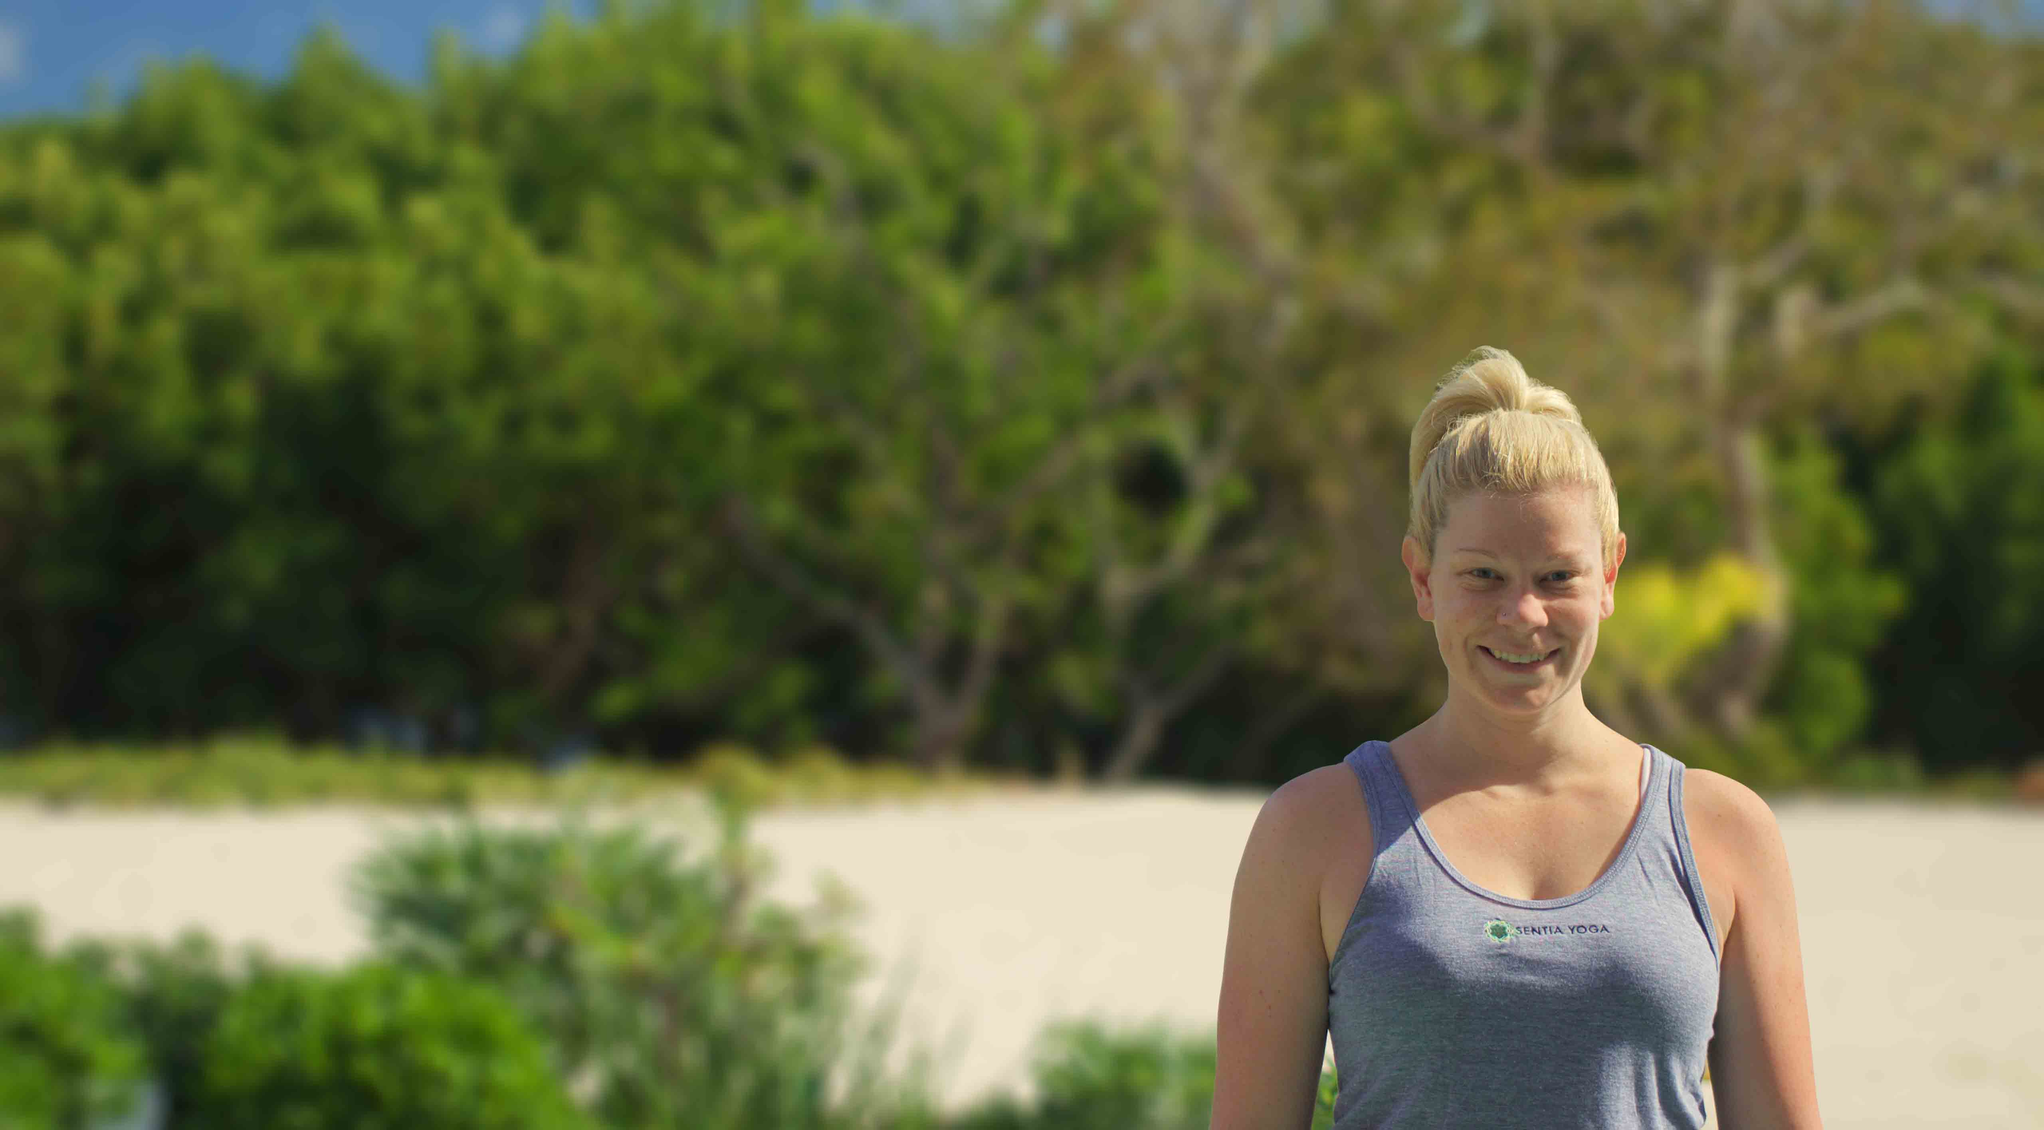
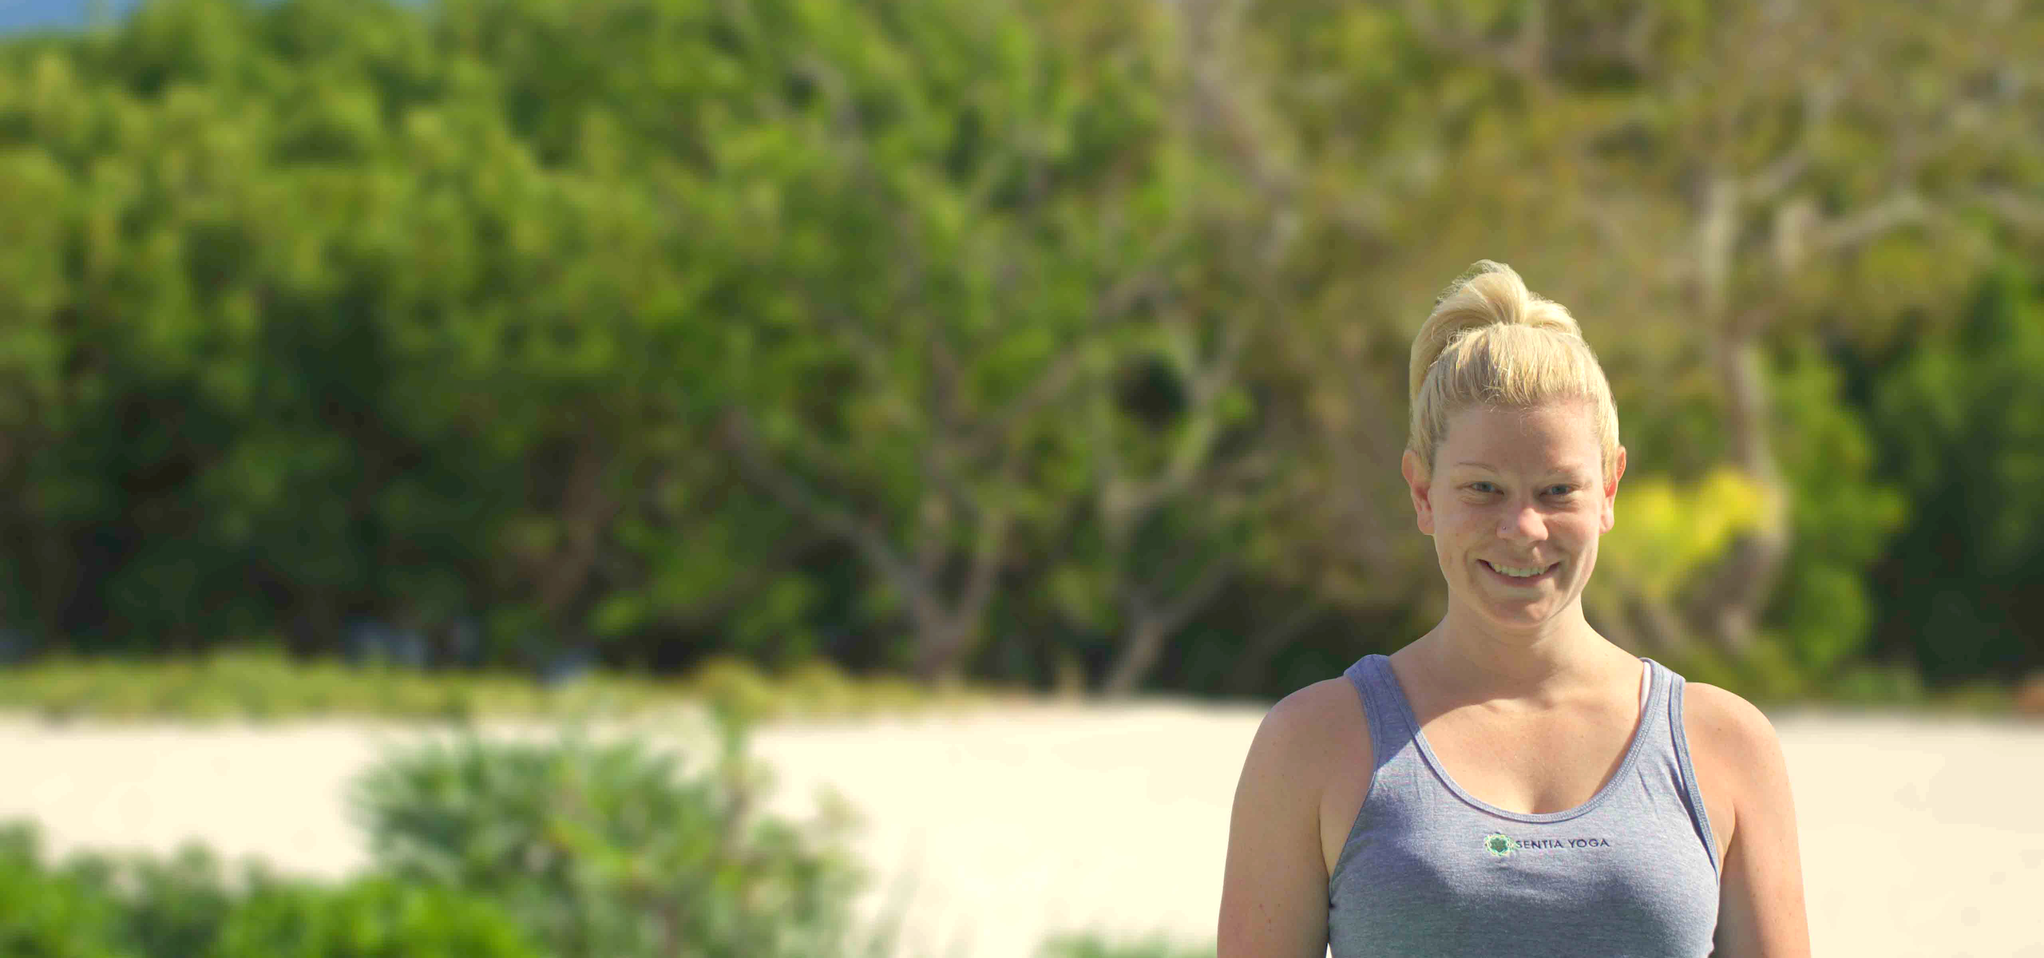
New design

diff --git a/_site/index.html b/_site/index.html
@@ -3,9 +3,10 @@
 <head>
     <meta charset="utf-8">
     <meta name="viewport" content="width=device-width, initial-scale=1">
-    <title></title>
-    <link rel="stylesheet" href="//fonts.googleapis.com/css?family=Merriweather:400,300,700,300italic,400italic,700italic">
-    <link rel="stylesheet" href="/css/styles.css">
+    <title>Sentia Yoga</title>
+    <link rel="stylesheet" href="//fonts.googleapis.com/css?family=Source+Sans+Pro:300,400,600">
+    <style>html{font-size:100%}body{background:#FFF;color:#414440;font-family:"Source Sans Pro", sans-serif;-webkit-font-feature-settings:"dlig", "kern", "liga";font-feature-settings:"dlig", "kern", "liga";-webkit-font-smoothing:antialiased;line-height:1.5rem;margin:0;-moz-osx-font-smoothing:grayscale;text-rendering:optimizeLegibility}a{color:#009245;text-decoration:none}a:focus,a:hover{color:#39B54A}h1{font-size:2.25rem;font-weight:300;line-height:3rem;margin:0}h2{font-weight:600;font-size:1.2rem;line-height:1.5rem;margin:1.5rem 0 0}p{margin:1.5rem 0;max-width:45rem}.site-header{background-size:2px 2px;background-image:linear-gradient(90deg, transparent 0%, transparent 50%, #C1C4C0 50%, #C1C4C0 100%);background-position:right top;background-repeat:repeat-y}@media (-webkit-min-device-pixel-ratio: 2), (min-resolution: 192dpi){.site-header{background-size:1px 1px}}@media (min-width: 45rem){.site-header{min-height:100vh;position:fixed;width:18rem}}.site-title{background-size:2px 2px;background-image:linear-gradient(transparent 0%, transparent 50%, #C1C4C0 50%, #C1C4C0 100%);background-position:left bottom;background-repeat:repeat-x;font-size:1rem;line-height:1.5rem;margin:0;padding:1.5rem 0.75rem}@media (-webkit-min-device-pixel-ratio: 2), (min-resolution: 192dpi){.site-title{background-size:1px 1px}}.site-title a{background-image:url("../images/logo.svg");background-position:center;background-repeat:no-repeat;background-size:contain;display:block;height:3rem;overflow:hidden;text-indent:100%}@media (min-width: 45rem){.site-title{padding:3rem 0.75rem}}.site-nav{display:none;list-style:none;margin:0;padding:0}@media (min-width: 45rem){.site-nav{display:block}}.site-nav__item a{background-size:2px 2px;background-image:linear-gradient(transparent 0%, transparent 50%, #C1C4C0 50%, #C1C4C0 100%);background-position:left bottom;background-repeat:repeat-x;display:block;padding:1.5rem;text-align:center}@media (-webkit-min-device-pixel-ratio: 2), (min-resolution: 192dpi){.site-nav__item a{background-size:1px 1px}}.contact-options{display:-webkit-flex;display:flex;-webkit-justify-content:center;justify-content:center;list-style:none;margin:1.5rem auto;padding:0;text-align:center}.contact-options__item{display:inline}.contact-options__item a{display:table;height:3rem;width:3rem;vertical-align:middle}.contact-options__item a svg{height:1.5rem;padding:0.75rem;width:1.5rem}.contact-options__item a svg path{fill:#919490}.contact-options__item a:focus svg path,.contact-options__item a:hover svg path{fill:#C1C4C0}@media (min-width: 45rem){.site-main{box-sizing:border-box;margin:0 0 0 18rem;padding:3rem}}.section--about{background:#919490;color:#FFF;padding:1.5rem 0.75rem}.section--about h1{font-size:1.875rem;font-weight:400;line-height:2.25rem;max-width:18rem;margin:1.5rem 0 0}@media (min-width: 45rem){.section--about{padding:3rem}.section--about h1{font-size:2.25rem;line-height:3rem;margin:0;max-width:24rem}}@media (min-width: 75rem){.section--about{background-image:linear-gradient(90deg, rgba(65,68,64,0.625) 0%, transparent 100%),url("../images/sarah-compressed.jpg");background-position:center;background-size:cover}.section--about p{max-width:30rem}}@media (min-width: 90rem){.section--about h1,.section--about p{max-width:33rem}}.section-title{margin:0;padding:3rem 0.75rem 1.5rem;text-align:center}@media (min-width: 45rem){.section-title{margin:0;padding:3rem 0 1.5rem;text-align:left}}.tiled-list{list-style:none;margin:0;padding:0}.tiled-list:after{clear:both;content:" ";display:table}@media (min-width: 45rem){.tiled-list{margin:-0.75rem}}.tiled-list__item{background-size:2px 2px;background-image:linear-gradient(#C1C4C0 0%, #C1C4C0 50%, transparent 50%, transparent 100%),linear-gradient(transparent 0%, transparent 50%, #C1C4C0 50%, #C1C4C0 100%),linear-gradient(90deg, #C1C4C0 0%, #C1C4C0 50%, transparent 50%, transparent 100%),linear-gradient(90deg, transparent 0%, transparent 50%, #C1C4C0 50%, #C1C4C0 100%);background-position:left top, left bottom, left top, right top;background-repeat:repeat-x, repeat-x, repeat-y, repeat-y;box-sizing:border-box;-webkit-hyphens:auto;-moz-hyphens:auto;-ms-hyphens:auto;hyphens:auto;margin:0.75rem;padding:1.5rem}@media (-webkit-min-device-pixel-ratio: 2), (min-resolution: 192dpi){.tiled-list__item{background-size:1px 1px}}@media (min-width: 45rem){.tiled-list__item{float:left;margin:0.75rem;width:calc(100% - 1.5rem)}}@media (min-width: 75rem){.tiled-list__item{height:22.5rem;width:calc(50% - 1.5rem)}}@media (min-width: 90rem){.tiled-list__item{width:calc(33.333% - 1.5rem)}}@media (min-width: 120rem){.tiled-list__item{width:calc(25% - 1.5rem)}}@media (min-width: 150rem){.tiled-list__item{width:calc(20% - 1.5rem)}}.tile{margin:-1.5rem 0 0;padding:0 0.75rem}@media (min-width: 45rem){.tile{padding:0}}.location-info{font-size:0.75rem;margin:0.75rem 0 0}.time-and-cost-info{font-size:0.75rem;margin:0 0 1.5rem}.site-footer{color:#919490;padding:3rem;text-align:center}@media (min-width: 45rem){.site-footer{box-sizing:border-box;margin:0 0 0 18rem;text-align:left}}
+</style>
 </head>
 
 <body>
@@ -17,11 +18,17 @@
             <li class="site-nav__item"><a href="#regular-classes">Regular Classes</a></li>
             <li class="site-nav__item"><a href="#private-hire">Private Hire</a></li>
         </ul>
+        <ul class="contact-options">
+            <li class="contact-options__item"><a href="https://facebook.com/sentiayoga"><svg version="1.1" xmlns="http://www.w3.org/2000/svg" xmlns:xlink="http://www.w3.org/1999/xlink" width="28" height="28" viewBox="0 0 28 28"><path fill="#444444" d="M22.672 2q0.547 0 0.938 0.391t0.391 0.938v21.344q0 0.547-0.391 0.938t-0.938 0.391h-6.109v-9.297h3.109l0.469-3.625h-3.578v-2.312q0-0.875 0.367-1.313t1.43-0.438l1.906-0.016v-3.234q-0.984-0.141-2.781-0.141-2.125 0-3.398 1.25t-1.273 3.531v2.672h-3.125v3.625h3.125v9.297h-11.484q-0.547 0-0.938-0.391t-0.391-0.938v-21.344q0-0.547 0.391-0.938t0.938-0.391h21.344z"></path></svg></a></li>
+            <li class="contact-options__item"><a href="https://twitter.com/sentiayoga"><svg xmlns="http://www.w3.org/2000/svg" width="26" height="28" viewBox="0 0 26 28"><path fill="#444" d="M25.312 6.375q-1.047 1.53-2.53 2.61.015.218.015.655 0 2.03-.594 4.055t-1.805 3.883-2.883 3.29-4.03 2.28T8.436 24q-4.234 0-7.75-2.266.547.063 1.22.063 3.515 0 6.265-2.156-1.64-.03-2.938-1.007t-1.78-2.492q.515.08.952.08.672 0 1.328-.173-1.75-.36-2.898-1.742t-1.148-3.21v-.064q1.062.595 2.28.642-1.03-.688-1.64-1.797t-.61-2.406q0-1.376.69-2.548 1.89 2.328 4.6 3.727t5.806 1.554q-.125-.594-.125-1.156 0-2.094 1.476-3.57T17.736 4q2.188 0 3.687 1.595 1.703-.328 3.203-1.22-.578 1.798-2.22 2.782 1.454-.156 2.907-.78z"/></svg></a></li>
+            <li class="contact-options__item"><a href="https://instagram.com/sentiayoga"><svg xmlns="http://www.w3.org/2000/svg" width="28" height="28" viewBox="0 0 28 28"><path fill="#444" d="M21.28 22.28V12.157h-2.108q.313.984.313 2.047 0 1.97-1 3.633t-2.72 2.633-3.75.968q-3.077 0-5.265-2.117t-2.188-5.116q0-1.062.313-2.047H2.672v10.125q0 .406.273.68t.68.273h16.703q.39 0 .672-.273t.28-.68zm-4.436-8.327q0-1.937-1.414-3.305T12.016 9.28q-1.984 0-3.398 1.368t-1.414 3.305 1.414 3.305 3.398 1.367q2 0 3.414-1.367t1.414-3.305zm4.437-5.625V5.75q0-.438-.312-.758t-.766-.32h-2.72q-.452 0-.765.32t-.313.758v2.578q0 .453.313.766t.766.313h2.72q.452 0 .765-.313t.313-.766zM24 5.078v17.844q0 1.266-.906 2.172T20.922 26H3.078q-1.266 0-2.172-.906T0 22.922V5.078q0-1.266.906-2.172T3.078 2h17.844q1.266 0 2.172.906T24 5.078z"/></svg></a></li>
+            <li class="contact-options__item"><a href="https://medium.com/@sentiayoga"><svg xmlns="http://www.w3.org/2000/svg" width="28" height="28" viewBox="0 0 28 28"><path fill="#444" d="M28 20.813v3.266H17.97v-3.267h2.093V6.343h-.094L15.062 24.08h-3.797L6.422 6.344h-.125v14.47h2.11v3.265H0v-3.267h1.078q.328 0 .672-.305t.344-.586V6.156q0-.28-.344-.625t-.672-.343H0V1.92h10.5l3.453 12.83h.094L17.53 1.92H28v3.267h-1.11q-.296 0-.64.344t-.344.626v13.766q0 .28.336.586t.648.305H28z"/></svg></a></li>
+        </ul>
     </header>
     <main class="site-main" role="main">
         <section class="section--about" id="about">
             <h1>Professional yoga instructor in Bath, UK.</h1>
-            <p>Hi, I’m Sarah. I am a certified and registered yoga instructor with the Independent Yoga Network. I’m vailable for studio, corporate and private instruction classes.</p>
+            <p>Hi, I’m Sarah. I am a certified and registered yoga instructor with the Independent Yoga Network. I’m available for studio, corporate and private instruction classes.</p>
             <p>In my 23+ years as a student of yoga I have found inspiration, sanctuary and strength in the practice. I try to work one or all of my varied expertise and passions into each class, making each one unique and inspiring! I have created sessions for crossfitters, runners, office workers and complete beginners.</p>
         </section>
         <section id="workshops">
@@ -54,12 +61,21 @@
                 <h1 class="section-title">Regular Classes</h1>
             </header>
             <ul class="tiled-list">
-                <li class="tiled-list__item">Lorem ipsum</li>
-                <li class="tiled-list__item">Lorem ipsum</li>
-                <li class="tiled-list__item">Lorem ipsum</li>
-                <li class="tiled-list__item">Lorem ipsum</li>
-                <li class="tiled-list__item">Lorem ipsum</li>
-                <li class="tiled-list__item">Lorem ipsum</li>
+                <li class="tiled-list__item">
+                    <h2>Flow Yoga</h2>
+                    <p class="location-info">Bath YMCA</p>
+                    <p class="time-and-cost-info">1 hour &bull; 11:15am Sundays &bull; £5</p>
+                </li>
+                <li class="tiled-list__item">
+                    <h2>Park Yoga</h2>
+                    <p class="location-info">Royal Crescent Lower Lawn, Bath</p>
+                    <p class="time-and-cost-info">6pm Wednesdays &bull; £5 donation</p>
+                </li>
+                <li class="tiled-list__item">
+                    <h2>Park Yoga</h2>
+                    <p class="location-info">Queen Square, Bath</p>
+                    <p class="time-and-cost-info">8:15am Thursdays &bull; £5 donation</p>
+                </li>
             </ul>
         </section>
         <section id="private-hire">

diff --git a/index.html b/index.html
@@ -10,11 +10,17 @@ layout: main
             <li class="site-nav__item"><a href="#regular-classes">Regular Classes</a></li>
             <li class="site-nav__item"><a href="#private-hire">Private Hire</a></li>
         </ul>
+        <ul class="contact-options">
+            <li class="contact-options__item"><a href="https://facebook.com/sentiayoga"><svg version="1.1" xmlns="http://www.w3.org/2000/svg" xmlns:xlink="http://www.w3.org/1999/xlink" width="28" height="28" viewBox="0 0 28 28"><path fill="#444444" d="M22.672 2q0.547 0 0.938 0.391t0.391 0.938v21.344q0 0.547-0.391 0.938t-0.938 0.391h-6.109v-9.297h3.109l0.469-3.625h-3.578v-2.312q0-0.875 0.367-1.313t1.43-0.438l1.906-0.016v-3.234q-0.984-0.141-2.781-0.141-2.125 0-3.398 1.25t-1.273 3.531v2.672h-3.125v3.625h3.125v9.297h-11.484q-0.547 0-0.938-0.391t-0.391-0.938v-21.344q0-0.547 0.391-0.938t0.938-0.391h21.344z"></path></svg></a></li>
+            <li class="contact-options__item"><a href="https://twitter.com/sentiayoga"><svg xmlns="http://www.w3.org/2000/svg" width="26" height="28" viewBox="0 0 26 28"><path fill="#444" d="M25.312 6.375q-1.047 1.53-2.53 2.61.015.218.015.655 0 2.03-.594 4.055t-1.805 3.883-2.883 3.29-4.03 2.28T8.436 24q-4.234 0-7.75-2.266.547.063 1.22.063 3.515 0 6.265-2.156-1.64-.03-2.938-1.007t-1.78-2.492q.515.08.952.08.672 0 1.328-.173-1.75-.36-2.898-1.742t-1.148-3.21v-.064q1.062.595 2.28.642-1.03-.688-1.64-1.797t-.61-2.406q0-1.376.69-2.548 1.89 2.328 4.6 3.727t5.806 1.554q-.125-.594-.125-1.156 0-2.094 1.476-3.57T17.736 4q2.188 0 3.687 1.595 1.703-.328 3.203-1.22-.578 1.798-2.22 2.782 1.454-.156 2.907-.78z"/></svg></a></li>
+            <li class="contact-options__item"><a href="https://instagram.com/sentiayoga"><svg xmlns="http://www.w3.org/2000/svg" width="28" height="28" viewBox="0 0 28 28"><path fill="#444" d="M21.28 22.28V12.157h-2.108q.313.984.313 2.047 0 1.97-1 3.633t-2.72 2.633-3.75.968q-3.077 0-5.265-2.117t-2.188-5.116q0-1.062.313-2.047H2.672v10.125q0 .406.273.68t.68.273h16.703q.39 0 .672-.273t.28-.68zm-4.436-8.327q0-1.937-1.414-3.305T12.016 9.28q-1.984 0-3.398 1.368t-1.414 3.305 1.414 3.305 3.398 1.367q2 0 3.414-1.367t1.414-3.305zm4.437-5.625V5.75q0-.438-.312-.758t-.766-.32h-2.72q-.452 0-.765.32t-.313.758v2.578q0 .453.313.766t.766.313h2.72q.452 0 .765-.313t.313-.766zM24 5.078v17.844q0 1.266-.906 2.172T20.922 26H3.078q-1.266 0-2.172-.906T0 22.922V5.078q0-1.266.906-2.172T3.078 2h17.844q1.266 0 2.172.906T24 5.078z"/></svg></a></li>
+            <li class="contact-options__item"><a href="https://medium.com/@sentiayoga"><svg xmlns="http://www.w3.org/2000/svg" width="28" height="28" viewBox="0 0 28 28"><path fill="#444" d="M28 20.813v3.266H17.97v-3.267h2.093V6.343h-.094L15.062 24.08h-3.797L6.422 6.344h-.125v14.47h2.11v3.265H0v-3.267h1.078q.328 0 .672-.305t.344-.586V6.156q0-.28-.344-.625t-.672-.343H0V1.92h10.5l3.453 12.83h.094L17.53 1.92H28v3.267h-1.11q-.296 0-.64.344t-.344.626v13.766q0 .28.336.586t.648.305H28z"/></svg></a></li>
+        </ul>
     </header>
     <main class="site-main" role="main">
         <section class="section--about" id="about">
             <h1>Professional yoga instructor in Bath, UK.</h1>
-            <p>Hi, I’m Sarah. I am a certified and registered yoga instructor with the Independent Yoga Network. I’m vailable for studio, corporate and private instruction classes.</p>
+            <p>Hi, I’m Sarah. I am a certified and registered yoga instructor with the Independent Yoga Network. I’m available for studio, corporate and private instruction classes.</p>
             <p>In my 23+ years as a student of yoga I have found inspiration, sanctuary and strength in the practice. I try to work one or all of my varied expertise and passions into each class, making each one unique and inspiring! I have created sessions for crossfitters, runners, office workers and complete beginners.</p>
         </section>
         <section id="workshops">
@@ -47,12 +53,21 @@ layout: main
                 <h1 class="section-title">Regular Classes</h1>
             </header>
             <ul class="tiled-list">
-                <li class="tiled-list__item">Lorem ipsum</li>
-                <li class="tiled-list__item">Lorem ipsum</li>
-                <li class="tiled-list__item">Lorem ipsum</li>
-                <li class="tiled-list__item">Lorem ipsum</li>
-                <li class="tiled-list__item">Lorem ipsum</li>
-                <li class="tiled-list__item">Lorem ipsum</li>
+                <li class="tiled-list__item">
+                    <h2>Flow Yoga</h2>
+                    <p class="location-info">Bath YMCA</p>
+                    <p class="time-and-cost-info">1 hour &bull; 11:15am Sundays &bull; £5</p>
+                </li>
+                <li class="tiled-list__item">
+                    <h2>Park Yoga</h2>
+                    <p class="location-info">Royal Crescent Lower Lawn, Bath</p>
+                    <p class="time-and-cost-info">6pm Wednesdays &bull; £5 donation</p>
+                </li>
+                <li class="tiled-list__item">
+                    <h2>Park Yoga</h2>
+                    <p class="location-info">Queen Square, Bath</p>
+                    <p class="time-and-cost-info">8:15am Thursdays &bull; £5 donation</p>
+                </li>
             </ul>
         </section>
         <section id="private-hire">

diff --git a/_sass/modules/site-main.scss b/_sass/modules/site-main.scss
@@ -7,21 +7,37 @@
 }
 
 .section--about {
-    background: $grey;
-    background-image: url('../images/sarah.jpg');
-    background-position: left center;
-    background-size: cover;
+    background: $grey-dark;
     color: $white;
-    padding: 3rem;
-    text-shadow: 0 0.125rem 0.25rem rgba(0,0,0,0.5);
+    padding: 1.5rem 0.75rem;
     h1 {
-        max-width: 30rem;
+        font-size: 1.875rem;
+        font-weight: 400;
+        line-height: 2.25rem;
+        max-width: 18rem;
+        margin: 1.5rem 0 0;
     }
-    p {
-        max-width: 36rem;
+    @media (min-width: 45rem) {
+        padding: 3rem;
+        h1 {
+            font-size: 2.25rem;
+            line-height: 3rem;
+            margin: 0;
+            max-width: 24rem;
+        }
     }
-    @media (min-width: 60rem) {
+    @media (min-width: 75rem) {
+        background-image: linear-gradient(90deg, transparentize($black, 0.375) 0%, transparent 100%), url('../images/sarah-compressed.jpg');
         background-position: center;
+        background-size: cover;
+        p {
+            max-width: 30rem;
+        }
+    }
+    @media (min-width: 90rem) {
+        h1, p {
+            max-width: 33rem;
+        }
     }
 }
 
@@ -61,10 +77,10 @@
         width: calc(100% - 1.5rem);
     }
     @media (min-width: 75rem) {
-        height: 27rem;
+        height: 22.5rem;
         width: calc(50% - 1.5rem);
     }
-    @media (min-width: 105rem) {
+    @media (min-width: 90rem) {
         width: calc(33.333% - 1.5rem);
     }
     @media (min-width: 120rem) {
@@ -75,9 +91,17 @@
     }
 }
 
+.tile {
+    margin: -1.5rem 0 0;
+    padding: 0 0.75rem;
+    @media (min-width: 45rem) {
+        padding: 0;
+    }
+}
+
 .location-info {
     font-size: 0.75rem;
-    margin: 1.5rem 0 0;
+    margin: 0.75rem 0 0;
 }
 
 .time-and-cost-info {

diff --git a/_sass/modules/site-header.scss b/_sass/modules/site-header.scss
@@ -12,13 +12,30 @@
     font-size: 1rem;
     line-height: 1.5rem;
     margin: 0;
-    padding: 0.75rem;
+    padding: 1.5rem 0.75rem;
+    a {
+        background-image: url('../images/logo.svg');
+        background-position: center;
+        background-repeat: no-repeat;
+        background-size: contain;
+        display: block;
+        height: 3rem;
+        overflow: hidden;
+        text-indent: 100%;
+    }
+    @media (min-width: 45rem) {
+        padding: 3rem 0.75rem;
+    }
 }
 
 .site-nav {
+    display: none;
     list-style: none;
     margin: 0;
     padding: 0;
+    @media (min-width: 45rem) {
+        display: block;
+    }
 }
 
 .site-nav__item {
@@ -26,5 +43,42 @@
         @include bordered-bottom;
         display: block;
         padding: 1.5rem;
+        text-align: center;
+    }
+}
+
+.contact-options {
+    display: -webkit-flex;
+    display:         flex;
+    -webkit-justify-content: center;
+            justify-content: center;
+    list-style: none;
+    margin: 1.5rem auto;
+    padding: 0;
+    text-align: center;
+}
+
+.contact-options__item {
+    display: inline;
+    a {
+        display: table;
+        height: 3rem;
+        width: 3rem;
+        vertical-align: middle;
+        svg {
+            height: 1.5rem;
+            padding: 0.75rem;
+            width: 1.5rem;
+            path {
+                fill: $grey-dark;
+            }
+        }
+        &:focus, &:hover {
+            svg {
+                path {
+                    fill: $grey;
+                }
+            }
+        }
     }
 }

diff --git a/_sass/base.scss b/_sass/base.scss
@@ -5,7 +5,7 @@ html {
 body {
     background: $white;
     color: $black;
-    font-family: Merriweather, Georgia, serif;
+    font-family: "Source Sans Pro", sans-serif;
     -webkit-font-feature-settings: "dlig", "kern", "liga";
             font-feature-settings: "dlig", "kern", "liga";
     -webkit-font-smoothing: antialiased;
@@ -26,13 +26,12 @@ a {
 h1 {
     font-size: 2.25rem;
     font-weight: 300;
-    letter-spacing: -0.0625rem;
     line-height: 3rem;
     margin: 0;
 }
 
 h2 {
-    font-weight: 400;
+    font-weight: 600;
     font-size: 1.2rem;
     line-height: 1.5rem;
     margin: 1.5rem 0 0;

diff --git a/_includes/header.html b/_includes/header.html
@@ -3,9 +3,9 @@
 <head>
     <meta charset="utf-8">
     <meta name="viewport" content="width=device-width, initial-scale=1">
-    <title></title>
-    <link rel="stylesheet" href="//fonts.googleapis.com/css?family=Merriweather:400,300,700,300italic,400italic,700italic">
-    <link rel="stylesheet" href="/css/styles.css">
+    <title>Sentia Yoga</title>
+    <link rel="stylesheet" href="//fonts.googleapis.com/css?family=Source+Sans+Pro:300,400,600">
+    <style>{% capture styles %}{% include styles.scss %}{% endcapture %}{{ styles | scssify }}</style>
 </head>
 
 <body>

diff --git a/_sass/variables.scss b/_sass/variables.scss
@@ -1,6 +1,6 @@
-$black: #4F4C4A;
+$black: #414440;
 $white: #FFF;
 $green: #009245;
 $green-light: #39B54A;
-$grey: #CFCCCA;
-$grey-dark: #9F9C9A;
+$grey: #C1C4C0;
+$grey-dark: #919490;

diff --git a/_includes/styles.scss b/_includes/styles.scss
@@ -1,6 +1,3 @@
----
----
-
 @import "variables";
 @import "mixins";
 @import "base";
